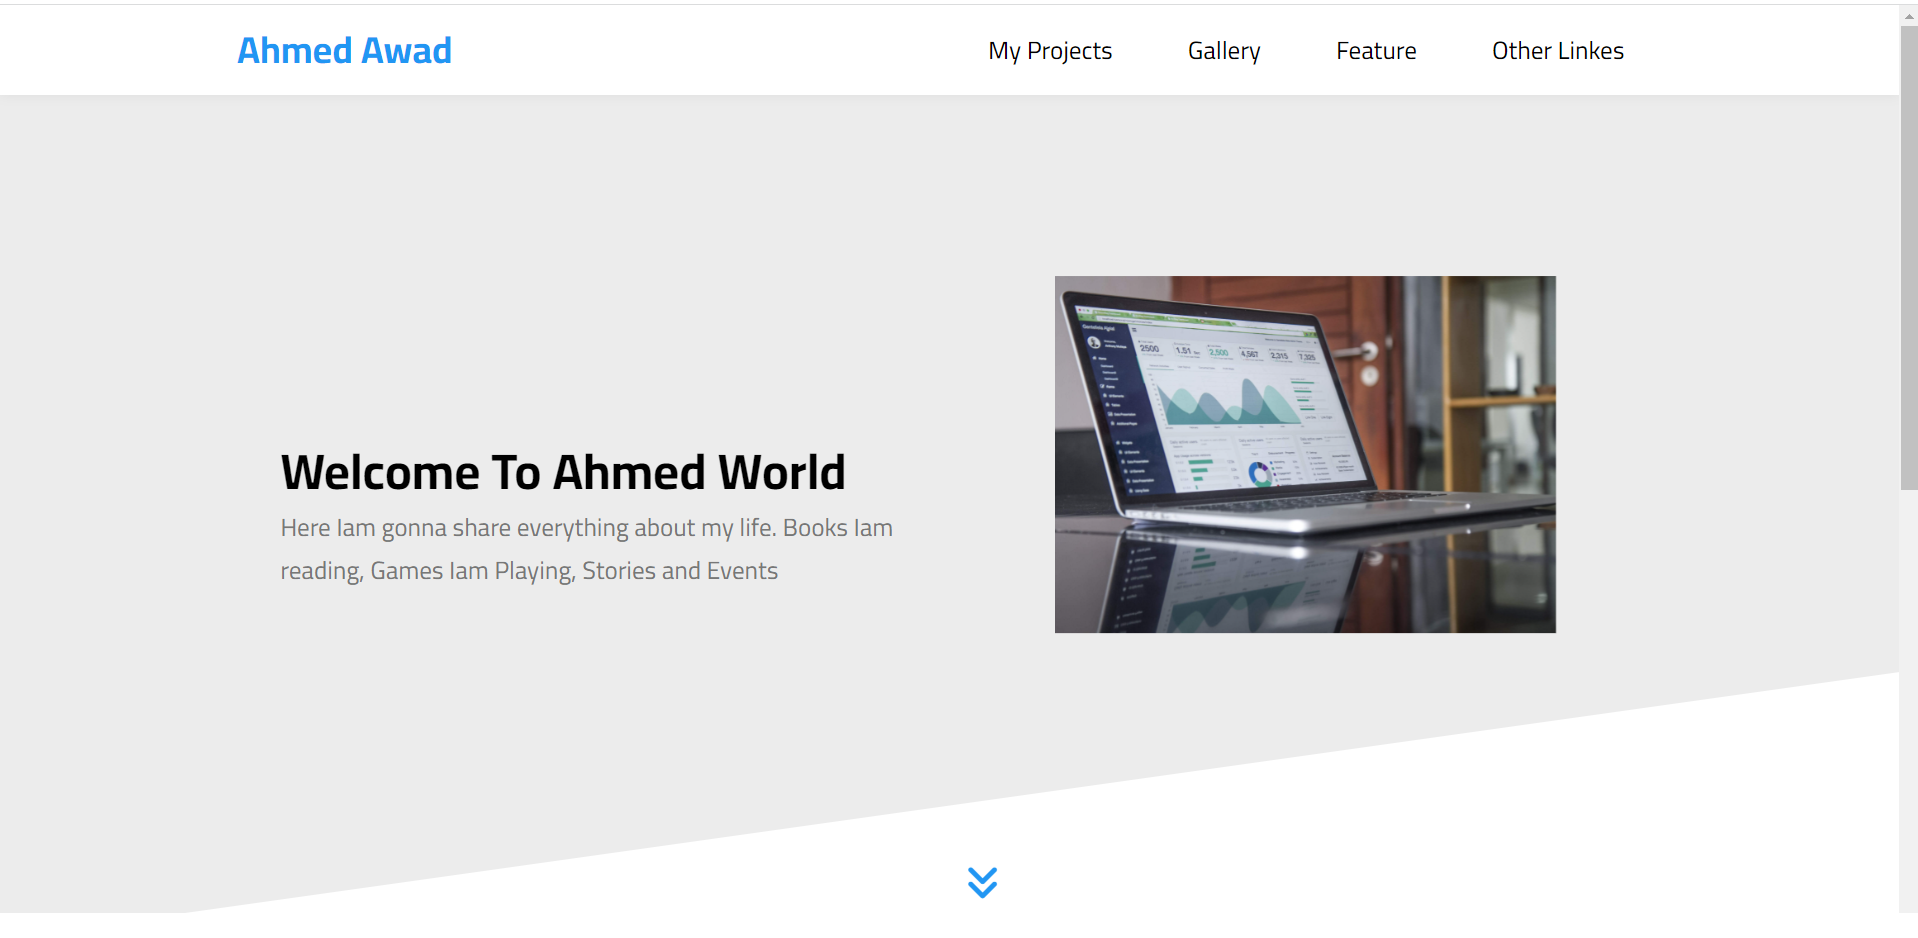
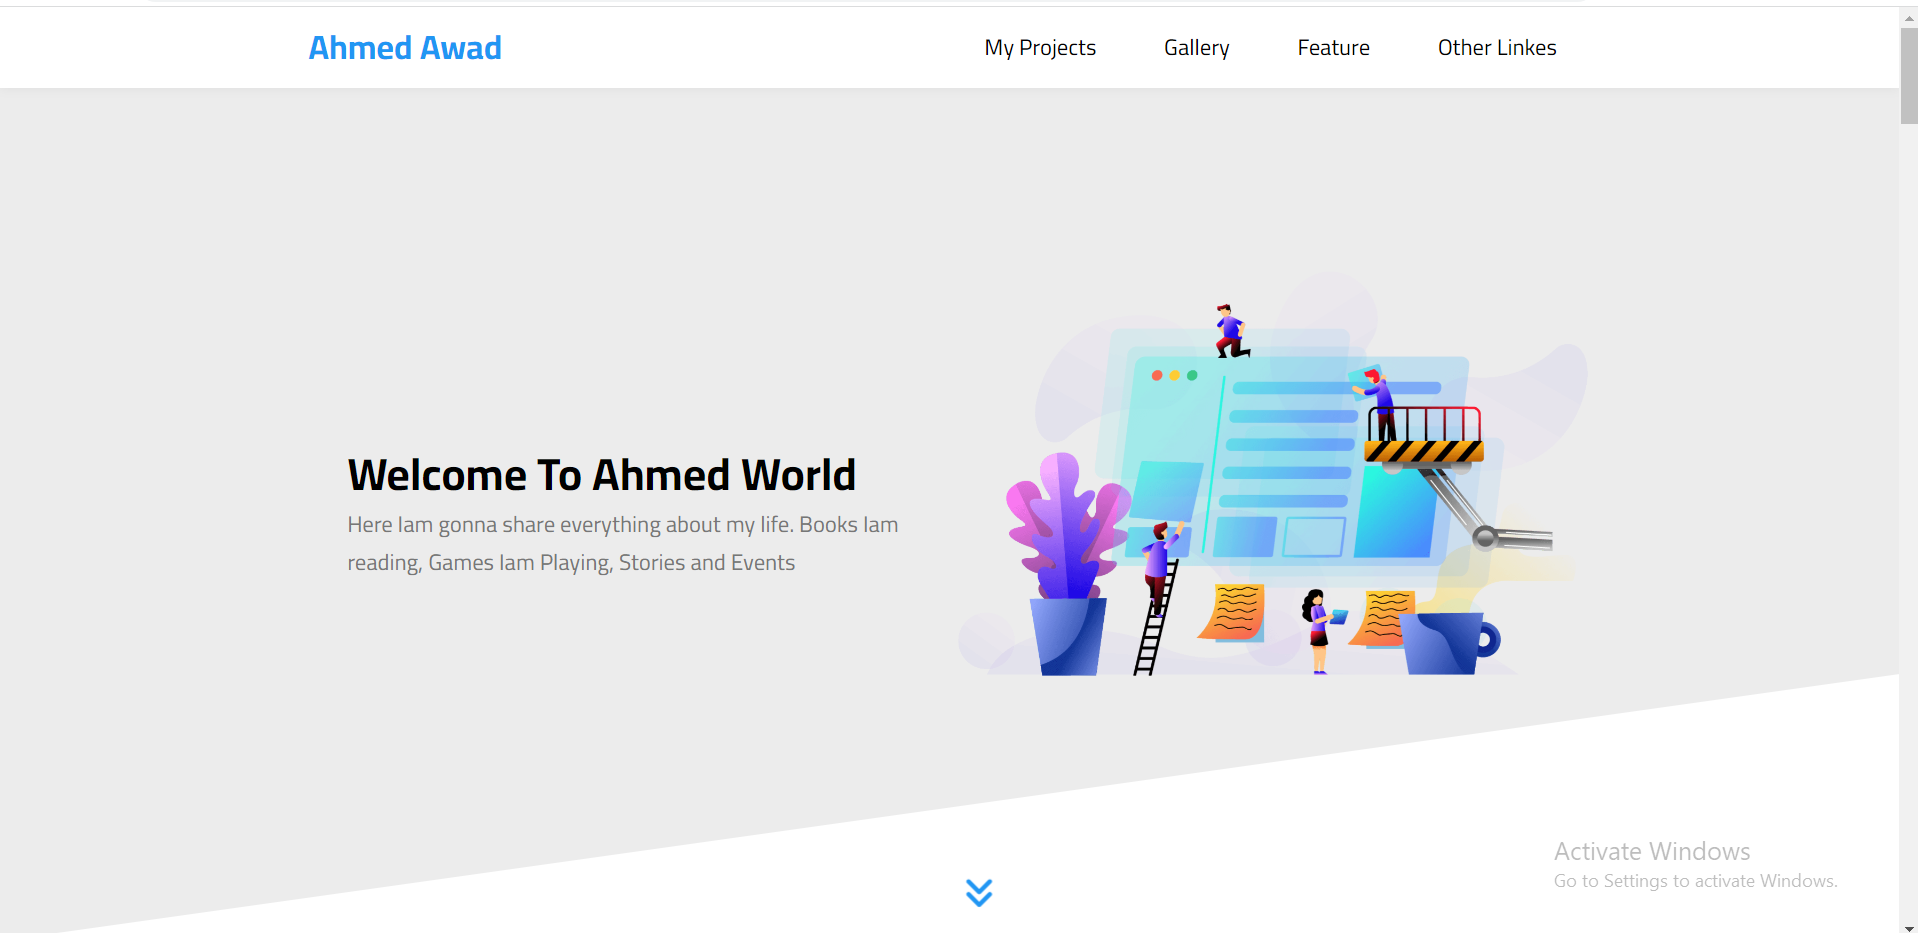
Our Skills section

diff --git a/index.html b/index.html
@@ -41,47 +41,53 @@
                 </li>
 
                 <li>
-                  <a href="">
+                  <a href="#events">
                     <i class="fa-solid fa-calendar-days"></i> Events
                   </a>
                 </li>
 
                 <li>
-                  <a href="">
+                  <a href="#team-member">
                     <i class="fa-solid fa-people-group"></i>Team Members
                   </a>
                 </li>
 
                 <li>
-                  <a href="">
+                  <a href="#pricing-plans">
                     <i class="fa-solid fa-signal"></i>Pricing Plans
                   </a>
                 </li>
 
                 <li>
-                  <a href=""> <i class="fa-solid fa-building"> </i>Services </a>
+                  <a href="#services">
+                    <i class="fa-solid fa-building"> </i>Services
+                  </a>
                 </li>
 
                 <li>
-                  <a href=""> <i class="fa-solid fa-video"></i>Top Videos </a>
+                  <a href="#top-video">
+                    <i class="fa-solid fa-video"></i>Top Videos
+                  </a>
                 </li>
                 <li>
-                  <a href="">
+                  <a href="#skills">
                     <i class="fa-solid fa-circle-check"></i>Our Skills
                   </a>
                 </li>
 
                 <li>
-                  <a href=""> <i class="fa-solid fa-chart-simple"></i>Stats </a>
+                  <a href="#stats">
+                    <i class="fa-solid fa-chart-simple"></i>Stats
+                  </a>
                 </li>
                 <li>
-                  <a href="">
+                  <a href="how-work">
                     <i class="fa-solid fa-clipboard"></i>How It Work
                   </a>
                 </li>
 
                 <li>
-                  <a href="">
+                  <a href="#discount">
                     <i class="fa-solid fa-percent"></i>Request a Discount
                   </a>
                 </li>
@@ -104,7 +110,7 @@
           </p>
         </div>
         <div class="image">
-          <img src="img/landing.jpg" alt="landing" />
+          <img src="img/landing-image.png" alt="landing" />
         </div>
       </div>
       <a href="#my-projects" class="go-down">
@@ -396,7 +402,7 @@
     <!--End Testimonial-->
 
     <!--Start team members section-->
-    <div class="team-member">
+    <div class="team-member" id="team-member">
       <div class="main-title">Team Member</div>
       <div class="container">
         <div class="member-card">
@@ -595,7 +601,7 @@
     <!--End team members section-->
 
     <!--Start Services Section-->
-    <div class="services">
+    <div class="services" id="services">
       <div class="main-title">Services</div>
       <div class="container">
         <div class="box">
@@ -643,5 +649,45 @@
       </div>
     </div>
     <!--End Services Section-->
+
+    <!--Start Skills section-->
+    <div class="skills" id="skills">
+      <div class="main-title">Our Skills</div>
+      <div class="container">
+        <div class="image">
+          <img src="img/skills.png" alt="" />
+        </div>
+        <div class="info">
+          <div class="skill">
+            <h3>HTML</h3>
+            <div class="progress" data-width="80%">
+              <span style="width: 80%"></span>
+            </div>
+          </div>
+
+          <div class="skill">
+            <h3>CSS</h3>
+            <div class="progress" data-width="85%">
+              <span style="width: 85%"></span>
+            </div>
+          </div>
+
+          <div class="skill">
+            <h3>JavaScript</h3>
+            <div class="progress" data-width="70%">
+              <span style="width: 70%"></span>
+            </div>
+          </div>
+
+          <div class="skill">
+            <h3>Python</h3>
+            <div class="progress" data-width="80%">
+              <span style="width: 80%"></span>
+            </div>
+          </div>
+        </div>
+      </div>
+    </div>
+    <!--End Skills section-->
   </body>
 </html>

diff --git a/CSS/styles.css b/CSS/styles.css
@@ -379,7 +379,6 @@ header .mega-menu ul li i {
 
 .landing .container .image img {
   max-width: 100%;
-  width: 40rem;
   animation: up-down 5s linear infinite;
 }
 
@@ -995,3 +994,78 @@ header .mega-menu ul li i {
   font-size: 1.6rem;
 }
 /*End Services*/
+
+/*Start Skills*/
+.skills {
+  padding-top: var(--section-padding);
+  padding-bottom: var(--section-padding);
+}
+
+.skills .container {
+  display: grid;
+  grid-template-columns: 2fr 3fr;
+  gap: 3rem;
+  align-items: center;
+}
+
+@media screen and (max-width: 768px) {
+  .skills .container {
+    grid-template-columns: 1fr;
+  }
+  .skills .info {
+    padding: 2rem 3rem;
+  }
+}
+
+.skills .container img {
+  max-width: 100%;
+}
+
+.skills .info .skill {
+  position: relative;
+}
+
+.skills .info .skill:not(:first-child) {
+  margin-top: 3rem;
+}
+
+.skills .info .skill h3 {
+  font-size: 2.4rem;
+}
+
+.skills .info .skill .progress {
+  margin-top: 2rem;
+  background-color: #ddd;
+  height: 3rem;
+  position: relative;
+}
+
+.skills .info .skill .progress::before {
+  content: attr(data-width);
+  position: absolute;
+  right: 1rem;
+  top: -5rem;
+  font-size: 1.6rem;
+  font-weight: bold;
+  color: var(--main-color);
+  border: 1px solid #ccc;
+  border-radius: 6px;
+  padding: 0.5rem;
+}
+
+.skills .info .skill .progress span {
+  position: absolute;
+  height: 100%;
+  background-color: var(--main-color);
+  animation: width-fill 0.5s linear 0 1 forwards;
+}
+
+@keyframes width-fill {
+  0% {
+    width: 0;
+  }
+  100% {
+    width: 100%;
+  }
+}
+/*End Skills*/
